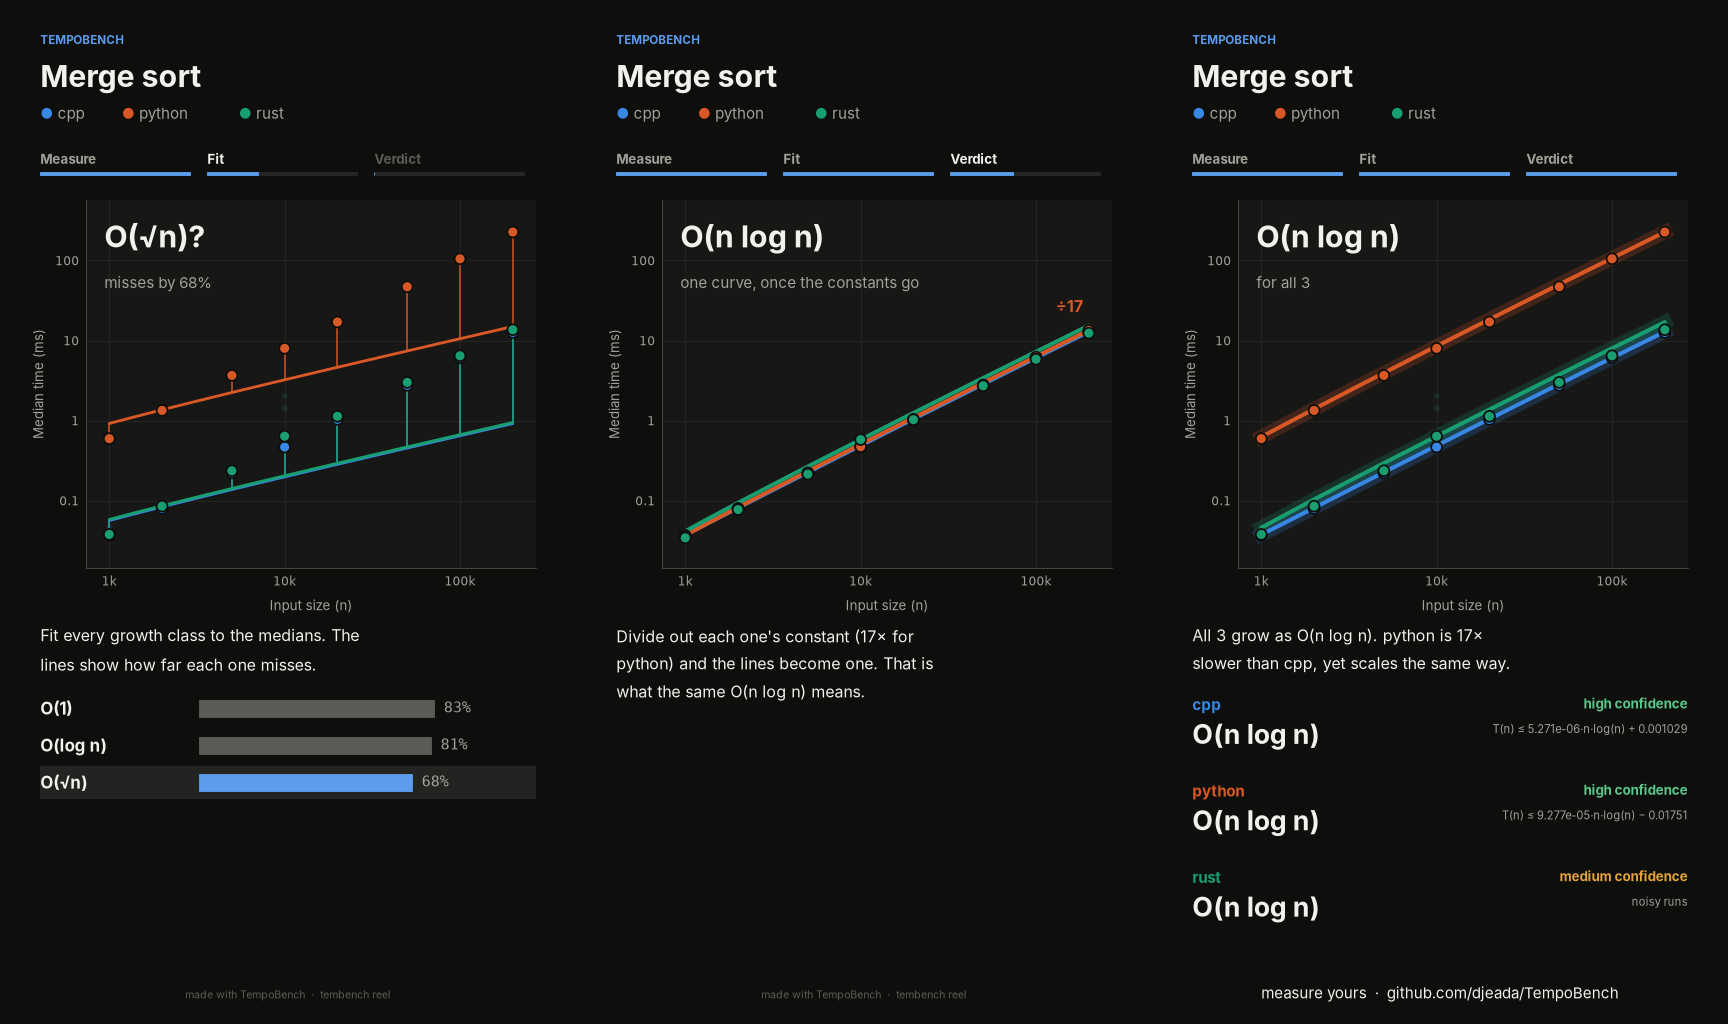
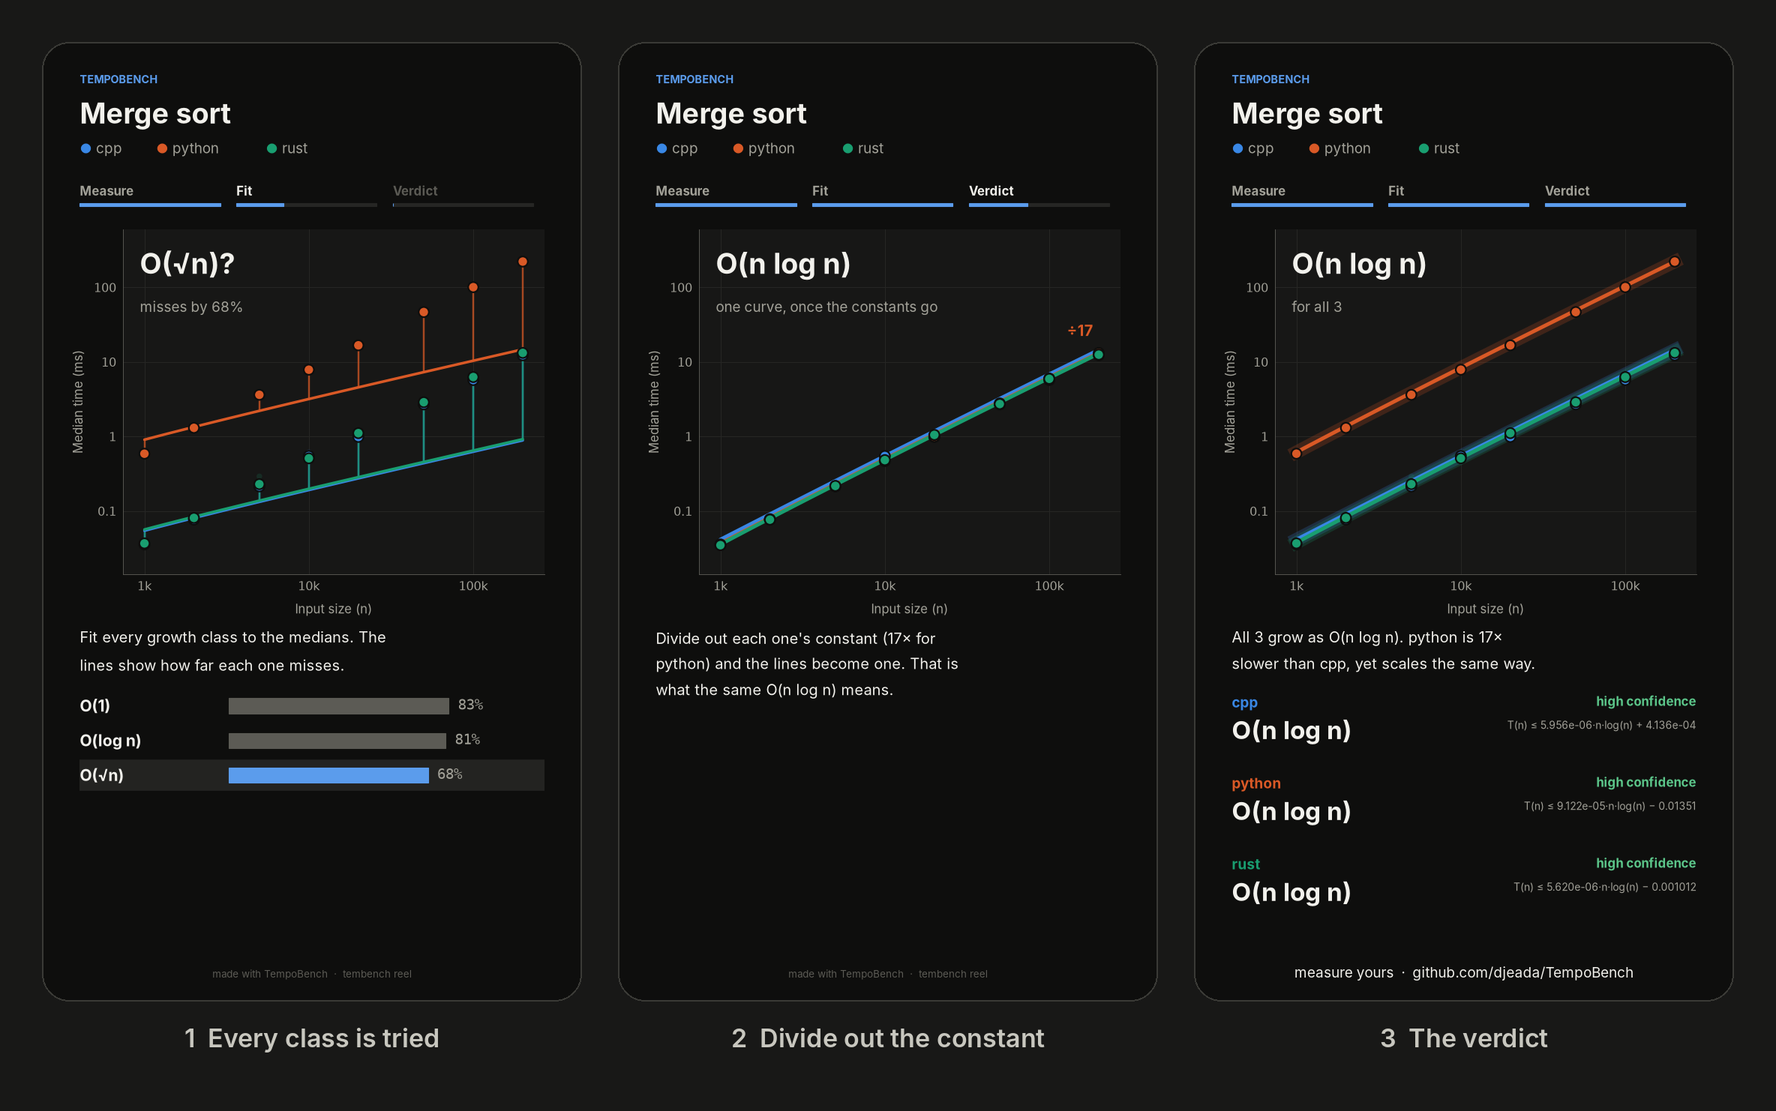
README: current screenshots, light and dark
Replace the February screenshot, which predates the redesign, with the
report as it looks now, taken from the cross-language merge sort run at
1.5x: the complexity cards and the runtime chart, in light and dark,
chosen by the reader's GitHub theme.  The reel figure shows three
moments as framed phone screens.

diff --git a/README.md b/README.md
@@ -2,7 +2,12 @@
 
 A language-agnostic benchmarking CLI that runs any command with parameter sweeps, records timing and memory, estimates Big-O complexity with an honest confidence rating, and generates reports, all from a single YAML config.
 
-<img width="1206" height="795" alt="Screenshot from 2026-02-12 21-53-22" src="https://github.com/user-attachments/assets/26c75949-de62-482d-8cfd-3d27db35eb95" />
+<picture>
+  <source media="(prefers-color-scheme: dark)" srcset="docs/report-dark.png">
+  <img src="docs/report-light.png" width="960" alt="A TempoBench report: merge sort in C++, Rust and Python, each fitted O(n log n) at high confidence, with the runtime chart on log axes">
+</picture>
+
+<sub>A report from <a href="examples/cross_language">examples/cross_language</a>: the same merge sort in three languages, 17× apart in speed, all O(n log n).</sub>
 
 ## Features
 
@@ -163,7 +168,7 @@ pip install -e ".[reel]"     # matplotlib draws the frames; ffmpeg encodes them
 tembench reel --summary artifacts/summary.csv --title "Merge sort" --poster artifacts/reel.png
 ```
 
-<img src="docs/reel.png" width="864" alt="Three frames of a reel: a class being tried, the series collapsing onto one curve, and the verdict">
+<img src="docs/reel.png" width="888" alt="Three frames of a reel for merge sort: O(√n) being tried and missing, the three languages collapsing onto one curve once their constant factors are divided out, and the verdict cards">
 
 `tembench reel` turns a finished run into a ~25-second 1080×1920 MP4 with a
 soundtrack, for sharing or teaching:
